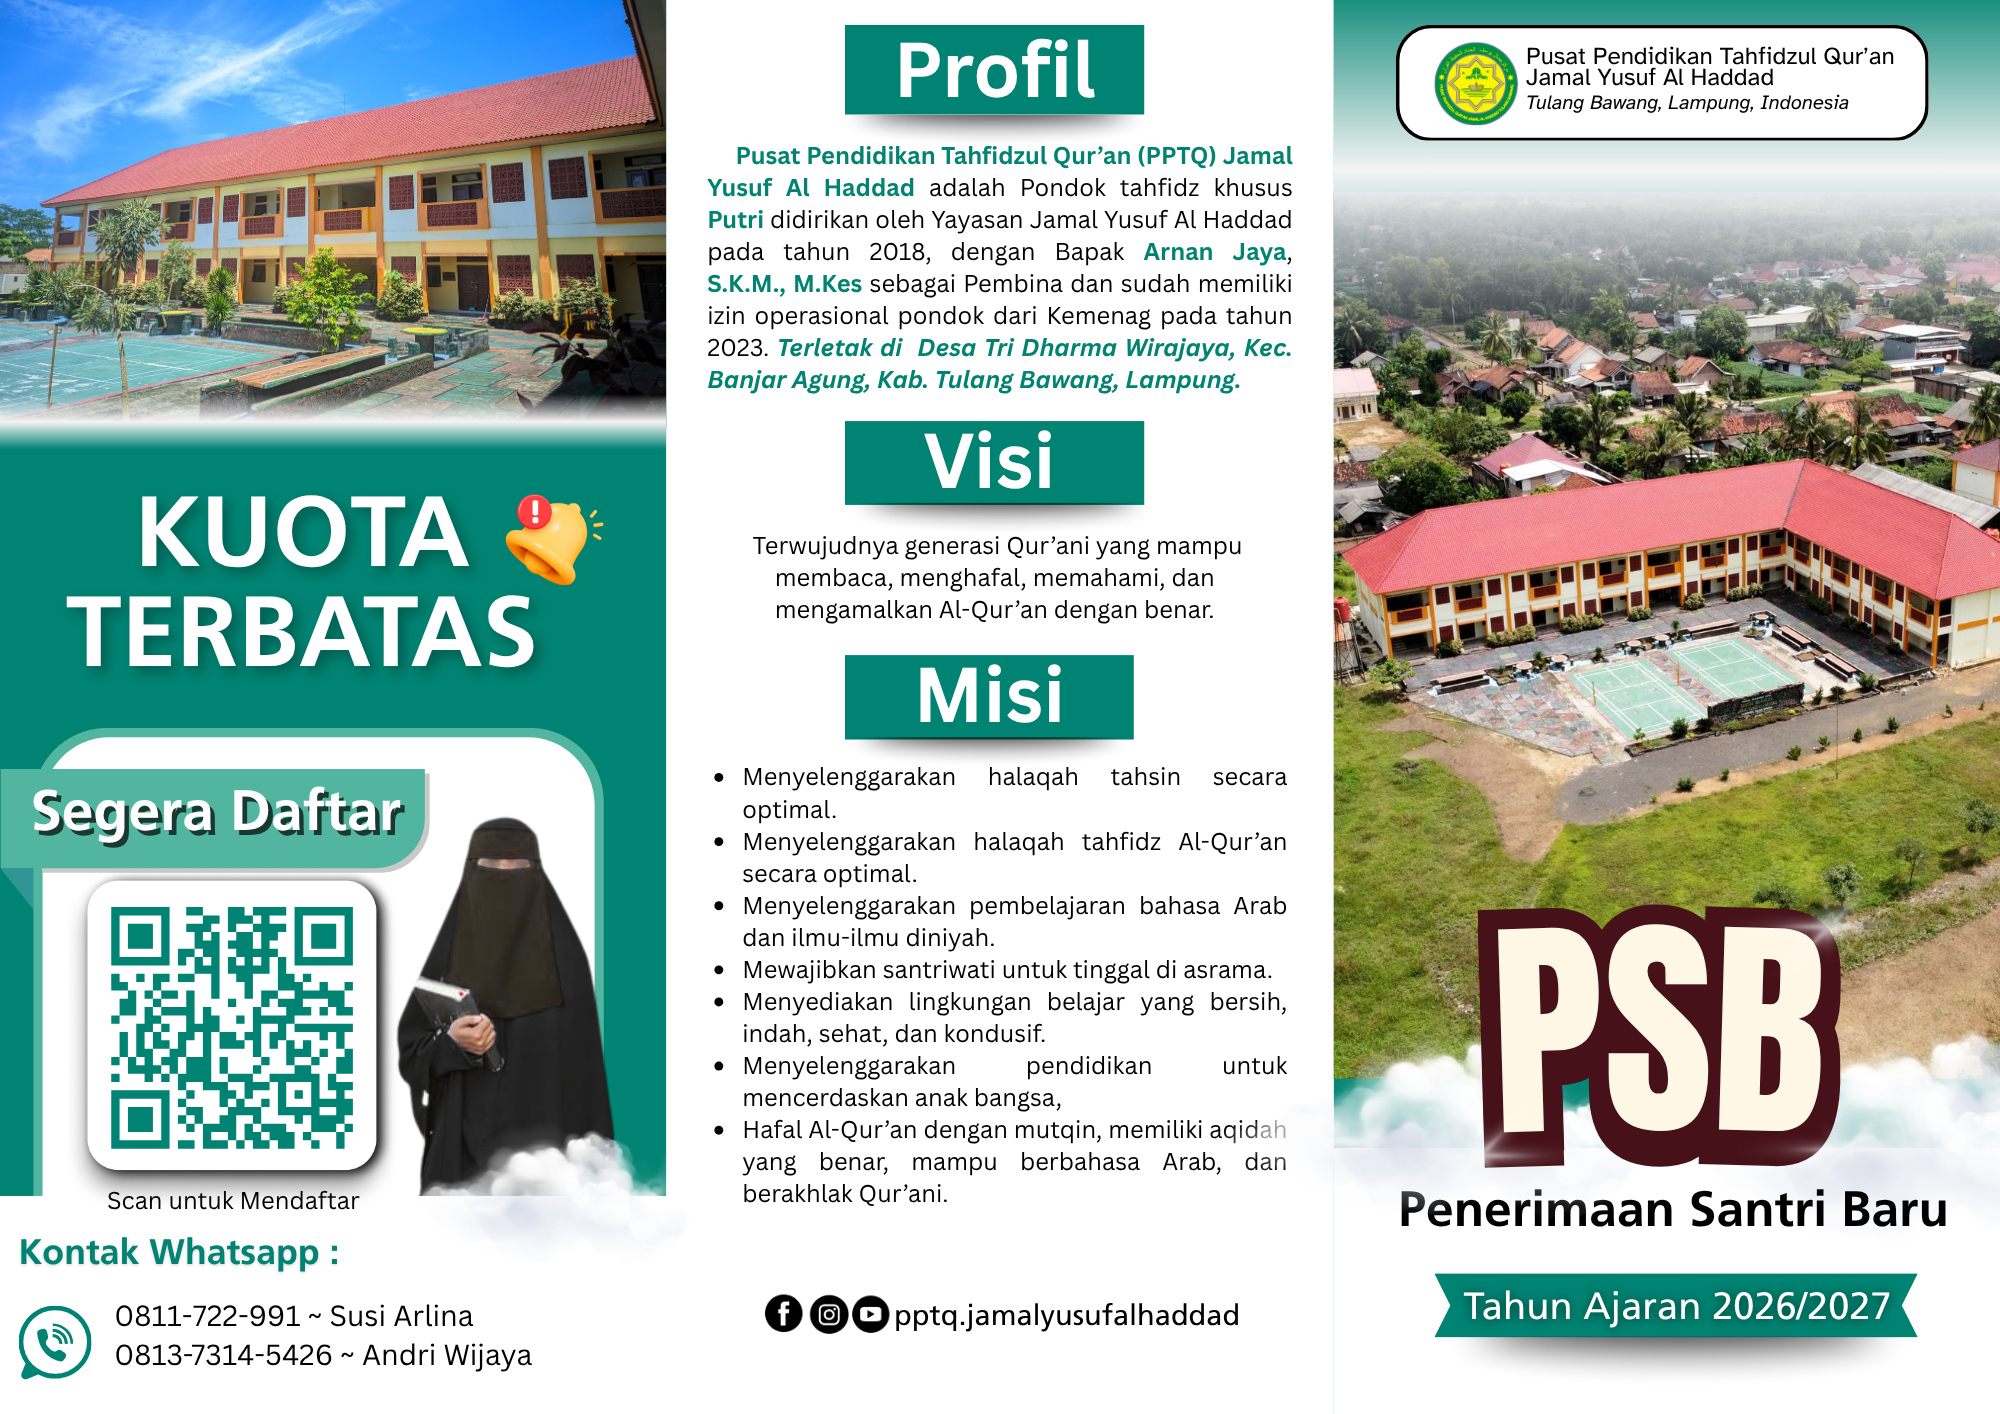
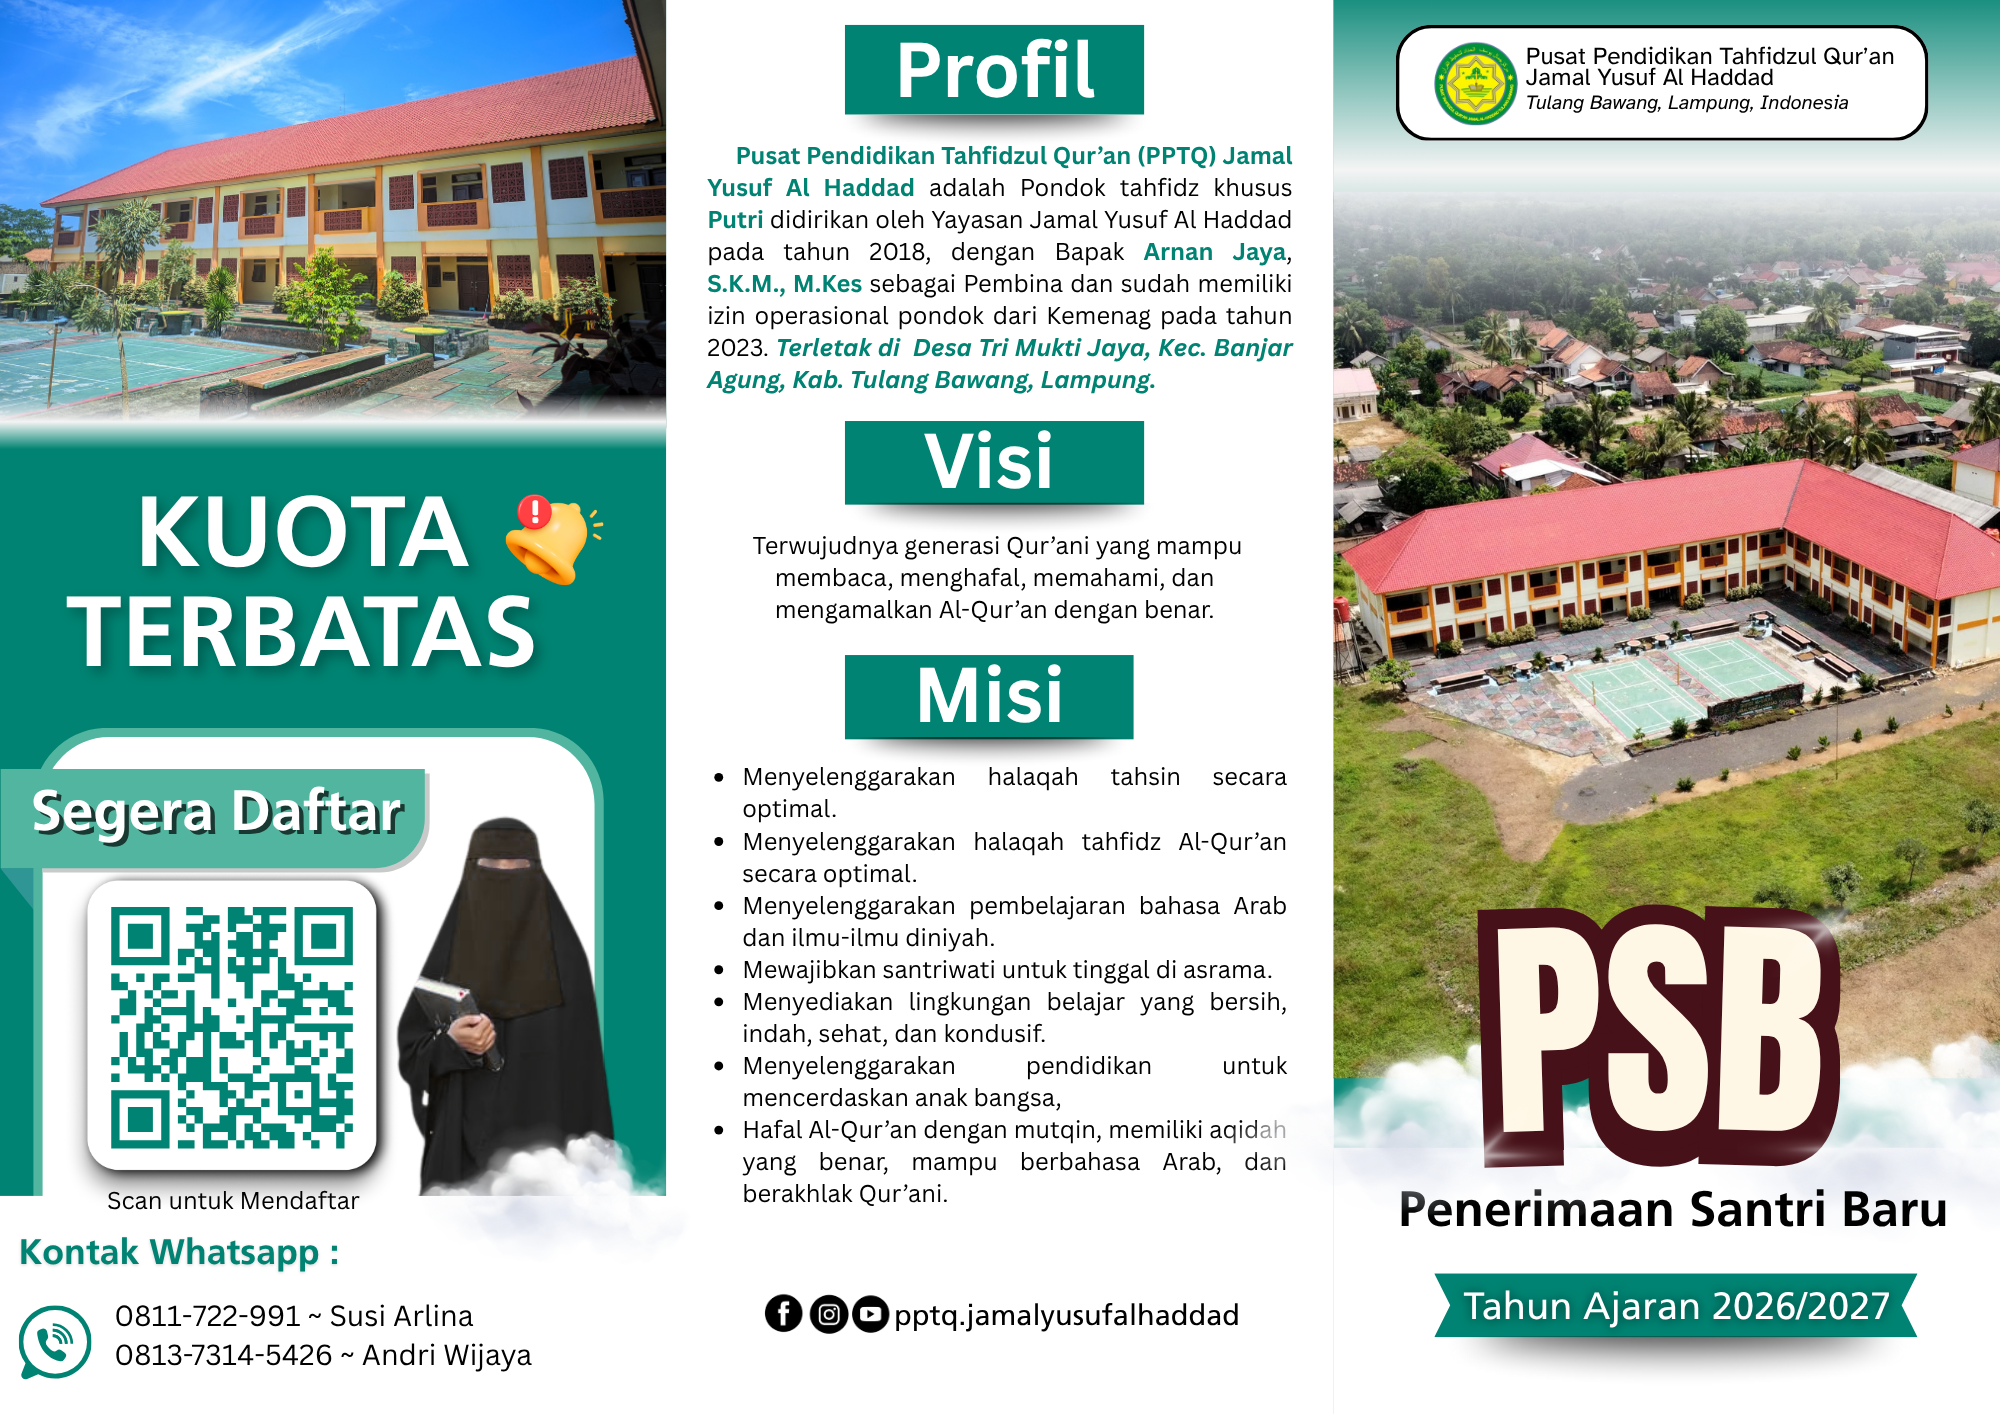
update index.html

diff --git a/index.html b/index.html
@@ -437,7 +437,7 @@
             <div class="about-grid">
                 <div class="vision-mission fade-in">
                     <h3>🎯 Profil Singkat</h3>
-                     <p style="text-align:justify; text-justify:inter-word; font-weight:normal;"">Pusat Pendidikan Tahfidzul Qur’an (PPTQ) Jamal Yusuf Al Haddad adalah Pondok tahfidz khusus Putri didirikan oleh Yayasan Jamal Yusuf Al Haddad pada tahun 2018, dengan Bapak Arnan Jaya, S.K.M., M.Kes sebagai Pembina dan sudah memiliki izin operasional pondok dari Kemenag pada tahun 2023. Terletak di  Desa Tri Dharma Wirajaya, Kec. Banjar Agung, Kab. Tulang Bawang, Lampung.
+                     <p style="text-align:justify; text-justify:inter-word; font-weight:normal;"">Pusat Pendidikan Tahfidzul Qur’an (PPTQ) Jamal Yusuf Al Haddad adalah Pondok tahfidz khusus Putri didirikan oleh Yayasan Jamal Yusuf Al Haddad pada tahun 2018, dengan Bapak Arnan Jaya, S.K.M., M.Kes sebagai Pembina dan sudah memiliki izin operasional pondok dari Kemenag pada tahun 2023. Terletak di  Desa Tri Mukti Jaya, Kec. Banjar Agung, Kab. Tulang Bawang, Lampung.
 
                      </p>
                     
